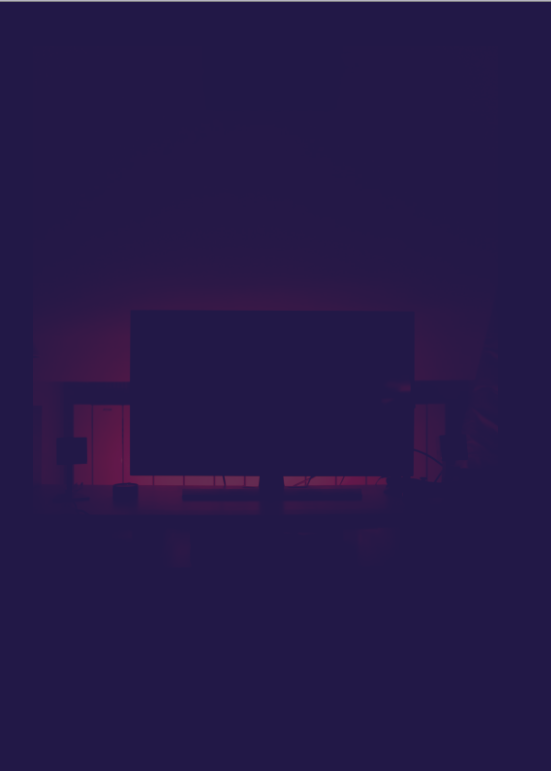
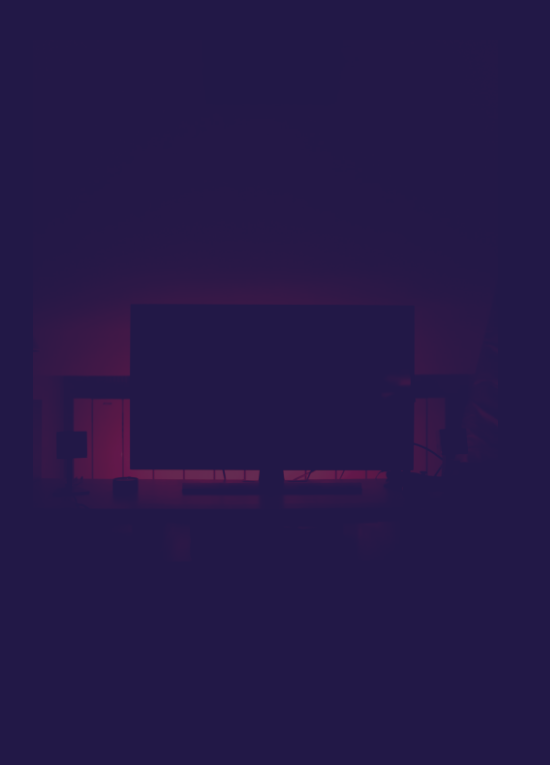
Styling issues (#65)
* Fix background image bug

* Fix scroll bug in actor list

* Change default tab on lists page

* Change redirect of no auth to register

* Fix responsive design

diff --git a/client/src/pages/Authentication.js b/client/src/pages/Authentication.js
@@ -9,7 +9,6 @@ const BackgroundContainer = styled.div`
   flex-flow: column nowrap;
   justify-content: space-around;
   align-items: center;
-  margin-top: -5px;
   width: 100%;
   height: 100%;
   background-image: ${(props) =>
@@ -17,8 +16,15 @@ const BackgroundContainer = styled.div`
       ? "url('/bg-signup.png')"
       : "url('/bg-login.png')"};
   background-size: cover;
-  background-position: top;
-  background: cover;
+  background-position: center;
+  background: contain;
+  overflow: auto;
+  @media (m: 700px) {
+    width: 45%;
+    height: 50%;
+    justify-content: space-evenly;
+    margin: 0;
+  }
 `;
 
 function Authentication() {

diff --git a/client/src/components/AuthenticationForm.js b/client/src/components/AuthenticationForm.js
@@ -17,13 +17,15 @@ const FormContainer = styled.form`
   align-items: center;
   justify-content: space-around;
   width: 60%;
-  @media (min-width: 700px) {
-    width: 45%;
-    margin-top: 15%;
-  }
   height: 80%;
   margin-top: 6%;
   margin-right: 20px;
+  @media (min-width: 700px) {
+    width: 45%;
+    height: 60%;
+    justify-content: space-evenly;
+    margin-top: 0px;
+  }
 
   & > * {
     & :focus {
@@ -47,6 +49,7 @@ const ButtonContainer = styled.div`
   display: flex;
   justify-content: center;
   flex-basis: 100%;
+  margin: 10px;
 `;
 
 const AccountQuestion = styled.div`

diff --git a/client/src/layoutRoutes/HeaderSideBottomNavLayoutRoute.js b/client/src/layoutRoutes/HeaderSideBottomNavLayoutRoute.js
@@ -46,8 +46,8 @@ const HeaderSideBottomNavLayoutRoute = ({
           <Header />
           <Container>
             <TabSideNavigation>
-              <div label={site === 'popular' ? 'Trending' : 'Watched'}></div>
-              <div label={site === 'popular' ? 'Newest' : 'ToWatch'}></div>
+              <div label={site === 'popular' ? 'Trending' : 'ToWatch'}></div>
+              <div label={site === 'popular' ? 'Newest' : 'Watched'}></div>
             </TabSideNavigation>
             <MainContainer>
               <Component {...matchProps} />

diff --git a/client/src/pages/Lists.js b/client/src/pages/Lists.js
@@ -7,9 +7,9 @@ function Lists() {
 
   return (
     <>
-      {tabContent === 'default' && <WatchLists tab="watched" />}
-      {tabContent === 'Watched' && <WatchLists tab="watched" />}
+      {tabContent === 'default' && <WatchLists tab="towatch" />}
       {tabContent === 'ToWatch' && <WatchLists tab="towatch" />}
+      {tabContent === 'Watched' && <WatchLists tab="watched" />}
     </>
   );
 }

diff --git a/client/src/components/ActorList.js b/client/src/components/ActorList.js
@@ -71,7 +71,8 @@ function ActorList({ actors }) {
 
   useLayoutEffect(() => {
     const target = targetRef.current;
-    const maxWidth = target.scrollWidth - 310;
+    const maxWidth = target.scrollWidth - 330;
+
     function handleScroll() {
       if (target.scrollLeft >= maxWidth) {
         setScrolled(true);

diff --git a/client/src/UserRoutes.js b/client/src/UserRoutes.js
@@ -41,7 +41,7 @@ function UserRoutes() {
             <Redirect to="/register" />
           </Route>
           <Route path="/">
-            <Redirect to="/login" />
+            <Redirect to="/register" />
           </Route>
         </Switch>
       )}

diff --git a/client/src/components/Logo.js b/client/src/components/Logo.js
@@ -26,6 +26,10 @@ const Container = styled.div`
   justify-content: center;
   align-items: center;
   height: 30%;
+  @media (min-width: 700px) {
+    margin-top: 5%;
+    height: 10%;
+  }
   margin-top: 30px;
 `;
 
